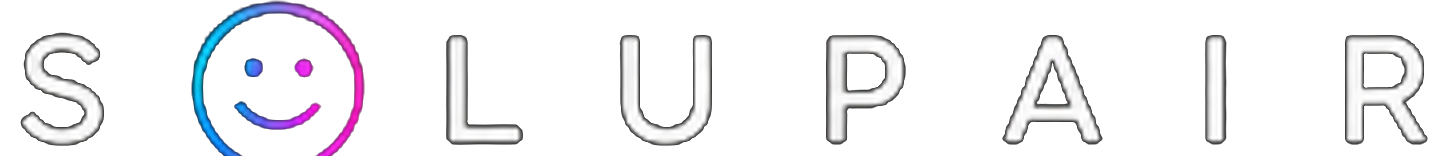
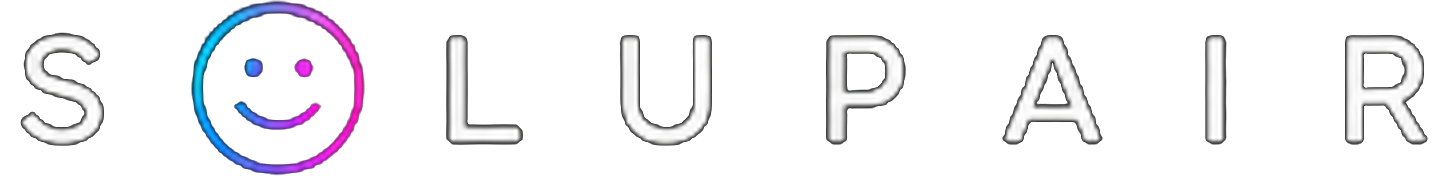
Smooth entrance motion (MotionValue-driven) and complete the wordmark smiley
Motion smoothness:
- The opening flight updated React state (rollAngle, diameter) every animation
  frame, forcing a full re-render plus a width/height layout reflow 60x/sec
  during the fastest part of the motion — the "glitchy" entrance. Drive the
  roll angle through a framer-motion MotionValue instead (BallSphere derives the
  rolling highlight from it via useTransform, no re-render), fly in at a fixed
  size so only transforms move (no per-frame reflow), reset the frame clock at
  the first real motion frame, and mark the animated layers will-change. The
  physics/behaviour is unchanged; the motion just runs on the compositor now.

Wordmark:
- The name-row crop cut the bottom off the smiley "O" (the circle dips ~4px
  below the letter baseline). Crop low enough for the full circle and mask only
  the stray red accent dash under the U/P, so the smiley is a complete face.
  Regenerated the asset (1448x176) and updated the header img size.

Claude-Session: https://claude.ai/code/session_0149rakKU44p6Xj45ZfA2Msj

diff --git a/src/components/ball-sphere.tsx b/src/components/ball-sphere.tsx
@@ -1,4 +1,4 @@
-import { motion, useTransform, type MotionValue } from "framer-motion";
+import { motion, useMotionValue, useTransform, type MotionValue } from "framer-motion";
 import { getSphereLighting } from "@/lib/ball-physics";
 
 /** Glossy almond eye with catchlights + a lid that scales down to blink/open. */
@@ -65,7 +65,8 @@ function Mouth({ smile }: { smile: MotionValue<number> }) {
 type BallSphereProps = {
   showFace?: boolean;
   faceReveal?: number;
-  rollAngle?: number;
+  /** Live roll angle. A MotionValue drives the rolling highlight without React re-renders. */
+  rollAngle?: MotionValue<number>;
   lidScale?: MotionValue<number>;
   smile?: MotionValue<number>;
   compact?: boolean;
@@ -74,40 +75,48 @@ type BallSphereProps = {
 export function BallSphere({
   showFace = false,
   faceReveal = 1,
-  rollAngle = 0,
+  rollAngle,
   lidScale,
   smile,
   compact = false,
 }: BallSphereProps) {
   const reveal = showFace ? faceReveal : 0;
-  const lighting = getSphereLighting(rollAngle, compact);
+
+  // Always subscribe to a MotionValue (Rules of Hooks); fall back to a static 0
+  // for the compact ambient blobs that never roll. Compute lighting once per
+  // frame off the compositor thread, then fan out — no per-frame re-render.
+  const fallbackRoll = useMotionValue(0);
+  const roll = rollAngle ?? fallbackRoll;
+  const lighting = useTransform(roll, (a) => getSphereLighting(Number(a), compact));
+  const background = useTransform(lighting, (l) => l.background);
+  const boxShadow = useTransform(lighting, (l) => l.boxShadow);
+  const rimGradient = useTransform(lighting, (l) => l.rimGradient);
+  const specLeft = useTransform(lighting, (l) => l.specular.x);
+  const specTop = useTransform(lighting, (l) => l.specular.y);
+  const specOpacity = useTransform(lighting, (l) => l.specular.opacity);
+  const specWidth = getSphereLighting(0, compact).specular.w;
+  const specHeight = getSphereLighting(0, compact).specular.h;
 
   return (
-    <div
+    <motion.div
       className="@container relative h-full w-full overflow-hidden rounded-full"
-      style={{
-        background: lighting.background,
-        boxShadow: lighting.boxShadow,
-      }}
+      style={{ background, boxShadow }}
     >
-      <div
+      <motion.div
         className="pointer-events-none absolute rounded-full bg-white/30 blur-[2px]"
         style={{
-          width: lighting.specular.w,
-          height: lighting.specular.h,
-          left: lighting.specular.x,
-          top: lighting.specular.y,
+          width: specWidth,
+          height: specHeight,
+          left: specLeft,
+          top: specTop,
           transform: "translate(-50%, -50%)",
-          opacity: lighting.specular.opacity,
+          opacity: specOpacity,
         }}
         aria-hidden
       />
-      <div
+      <motion.div
         className="pointer-events-none absolute inset-0 rounded-full"
-        style={{
-          background: lighting.rimGradient,
-          opacity: 0.85,
-        }}
+        style={{ background: rimGradient, opacity: 0.85 }}
         aria-hidden
       />
 
@@ -121,6 +130,6 @@ export function BallSphere({
           <Mouth smile={smile} />
         </div>
       )}
-    </div>
+    </motion.div>
   );
 }

diff --git a/src/components/hero-face-ball.tsx b/src/components/hero-face-ball.tsx
@@ -86,7 +86,9 @@ export function HeroFaceBall({
   const cycleRef = useRef<CyclePhase>("live");
   const [diameter, setDiameter] = useState(() => getPreferredDiameter());
   const [faceReveal, setFaceReveal] = useState(prefersReducedMotion ? 1 : 0);
-  const [rollAngle, setRollAngle] = useState(0);
+  // Roll angle drives the rolling highlight — a MotionValue so per-frame updates
+  // never trigger a React re-render (that was a source of entrance-motion jank).
+  const rollAngle = useMotionValue(0);
   const isHoveringRef = useRef(false);
   const entranceStartedRef = useRef(false);
   const restSinceRef = useRef<number | null>(null);
@@ -395,7 +397,7 @@ export function HeroFaceBall({
     let raf = 0;
     let cancelled = false;
     let last = performance.now();
-    const startTime = performance.now();
+    let startTime = performance.now();
     const maxDuration = getEntranceMaxDurationMs(isPhone);
     const preferred = getPreferredDiameter();
 
@@ -407,18 +409,24 @@ export function HeroFaceBall({
         return;
       }
 
+      // Fly in at final size — growing width/height every frame forced a layout
+      // reflow mid-flight (the entrance jank). Size is fixed; only transforms move.
       const baseDiameter = fitDiameter(preferred);
-      const entranceDiameter = baseDiameter * 0.92;
-      setDiameter(entranceDiameter);
-      radiusRef.current = entranceDiameter / 2;
+      setDiameter(baseDiameter);
+      radiusRef.current = baseDiameter / 2;
 
       const initial = getEntranceInitialState(width, height, radiusRef.current);
       stateRef.current = initial;
       posX.set(initial.x);
       posY.set(initial.y);
       rollAngleRef.current = 0;
-      setRollAngle(0);
+      rollAngle.set(0);
       setPhaseSafe("entering");
+
+      // Start the clock at the first real motion frame so a slow boot/layout
+      // wait can't produce a jumbo first-frame delta or clip the flight short.
+      last = performance.now();
+      startTime = performance.now();
 
       const tick = (now: number) => {
         if (cancelled || phaseRef.current !== "entering") return;
@@ -440,7 +448,7 @@ export function HeroFaceBall({
         const dx = result.x - prev.x;
         const dy = result.y - prev.y;
         rollAngleRef.current += rollDeltaFromMotion(dx, dy, radiusRef.current);
-        setRollAngle(rollAngleRef.current);
+        rollAngle.set(rollAngleRef.current);
 
         const hitHorizontal = result.hitLeft || result.hitRight;
         const hitVertical = result.hitTop || result.hitBottom;
@@ -459,11 +467,6 @@ export function HeroFaceBall({
         else contactPinY.set(0);
 
         floorProximity.set(result.floorProximity);
-
-        const elapsed = (now - startTime) / maxDuration;
-        const nextDiameter = baseDiameter * (0.92 + Math.min(1, elapsed) * 0.08);
-        setDiameter(nextDiameter);
-        radiusRef.current = nextDiameter / 2;
 
         stateRef.current = result;
         posX.set(result.x);
@@ -498,6 +501,7 @@ export function HeroFaceBall({
     posY,
     prefersReducedMotion,
     readSectionBounds,
+    rollAngle,
     setPhaseSafe,
     syncFlightDeform,
   ]);
@@ -555,7 +559,7 @@ export function HeroFaceBall({
       const dy = result.y - prevY;
       if (!drag) {
         rollAngleRef.current += rollDeltaFromMotion(dx, dy, radiusRef.current);
-        setRollAngle(rollAngleRef.current);
+        rollAngle.set(rollAngleRef.current);
       }
 
       const hitHorizontal = result.hitLeft || result.hitRight;
@@ -633,6 +637,7 @@ export function HeroFaceBall({
     posY,
     prefersReducedMotion,
     readSectionBounds,
+    rollAngle,
     settleBreath,
     speedNorm,
     syncFlightDeform,
@@ -763,7 +768,7 @@ export function HeroFaceBall({
       const dx = px - prev.x;
       const dy = py - prev.y;
       rollAngleRef.current += rollDeltaFromMotion(dx, dy, radiusRef.current);
-      setRollAngle(rollAngleRef.current);
+      rollAngle.set(rollAngleRef.current);
 
       pointerRef.current = { x: px, y: py };
       recordPointerSample(px, py);
@@ -771,7 +776,7 @@ export function HeroFaceBall({
       posX.set(px);
       posY.set(py);
     },
-    [posX, posY, readSectionBounds, recordPointerSample],
+    [posX, posY, readSectionBounds, recordPointerSample, rollAngle],
   );
 
   const applyClientDrag = useCallback(
@@ -999,6 +1004,7 @@ export function HeroFaceBall({
           y: glowRenderY,
           opacity: glowOpacity,
           scale: glowScale,
+          willChange: "transform, opacity",
         }}
       />
 
@@ -1017,6 +1023,7 @@ export function HeroFaceBall({
           opacity: shadowOpacity,
           scaleX: contactShadowScale,
           scaleY: contactShadowScaleY,
+          willChange: "transform, opacity, filter",
         }}
       />
 
@@ -1030,6 +1037,7 @@ export function HeroFaceBall({
           height: diameter,
           opacity: cinematicOpacity,
           filter: cinematicFilter,
+          willChange: "transform, opacity, filter",
         }}
       >
         <motion.div
@@ -1042,6 +1050,7 @@ export function HeroFaceBall({
           style={{
             scaleX: composedScaleX,
             scaleY: composedScaleY,
+            willChange: "transform",
           }}
           {...pointerHandlers}
         >

diff --git a/src/components/site-header.tsx b/src/components/site-header.tsx
@@ -31,7 +31,7 @@ function SolupairLogo() {
           src={solupairWordmark}
           alt="Solupair"
           width={1448}
-          height={156}
+          height={176}
           decoding="async"
           className="site-logo-wordmark h-full w-auto object-contain object-left"
         />